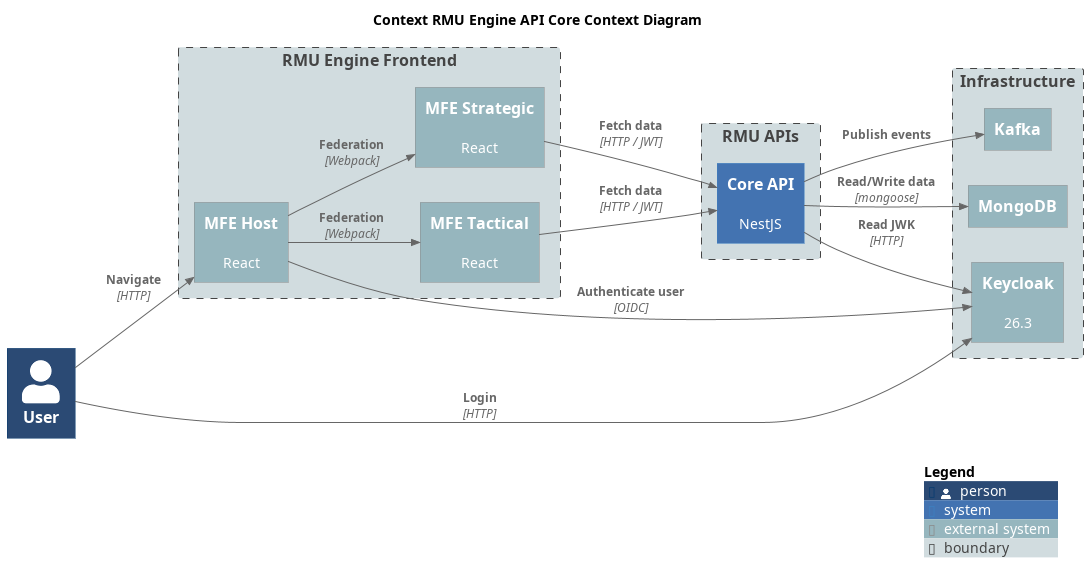
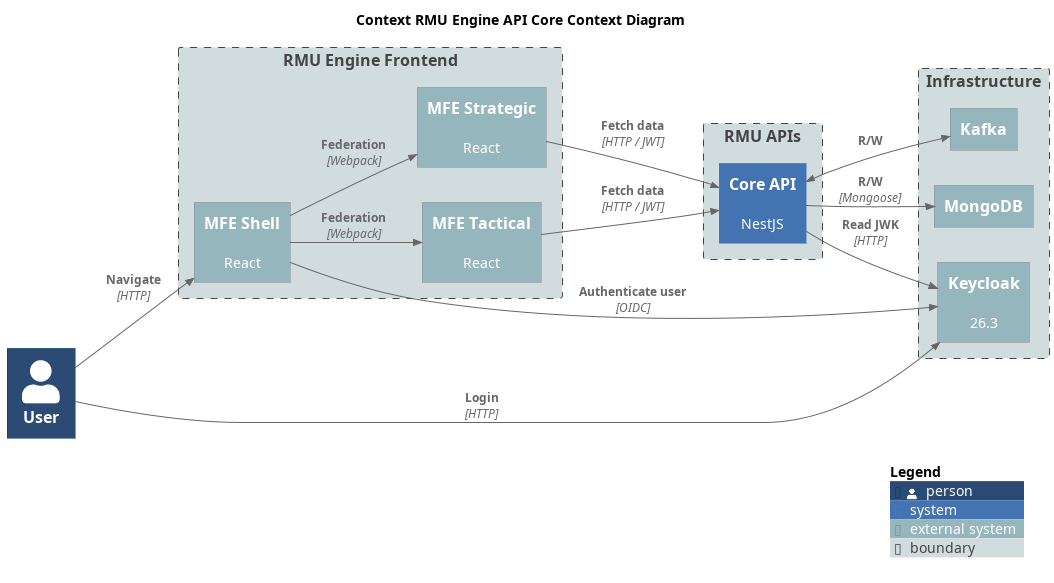
Minor refactor. Updated doc.

diff --git a/src/modules/cultures/interfaces/http/dtos/update-culture.dto.ts b/src/modules/cultures/interfaces/http/dtos/update-culture.dto.ts
@@ -2,7 +2,6 @@ import { IsOptional, IsString } from 'class-validator';
 import { ApiProperty } from '@nestjs/swagger';
 import { UpdateCultureCommand } from 'src/modules/cultures/application/cqrs/commands/update-culture.command';
 import type { AccessType } from 'src/modules/shared/domain/entities/access-type';
-import { CultureSkillRank } from 'src/modules/cultures/domain/value-objects/culture-skill-rank';
 
 export class UpdateCultureDto {
   @ApiProperty({ description: 'Name of the race', example: 'Elf', required: false })

diff --git a/src/modules/professions/domain/aggregates/profession.ts b/src/modules/professions/domain/aggregates/profession.ts
@@ -1,6 +1,6 @@
 import { ProfessionSkillCosts } from '../value-objects/profession-skill-cost.vo';
 import { RealmType } from '../value-objects/realm-type.vo';
-import { ProfessionProps } from './profession.props';
+import { ProfessionProps } from './profession-props';
 import { RbacEntity } from 'src/modules/shared/domain/entities/has-owner';
 import { ProfessionArchetype } from '../value-objects/profession-archetype.vo';
 import { EntitySource } from 'src/modules/shared/domain/entities/entity-source';
